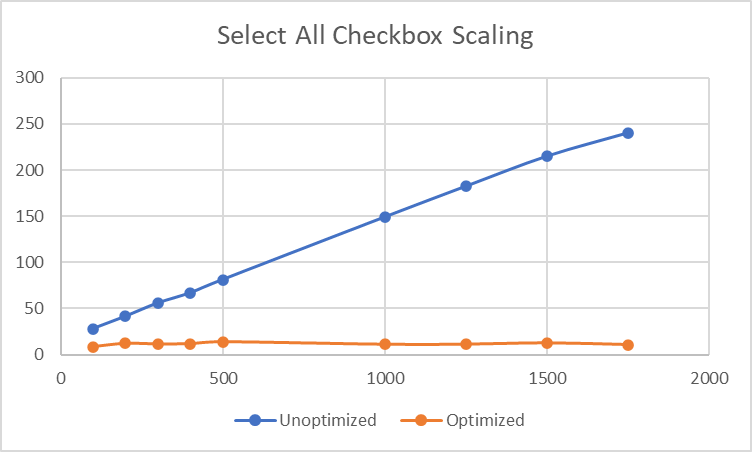
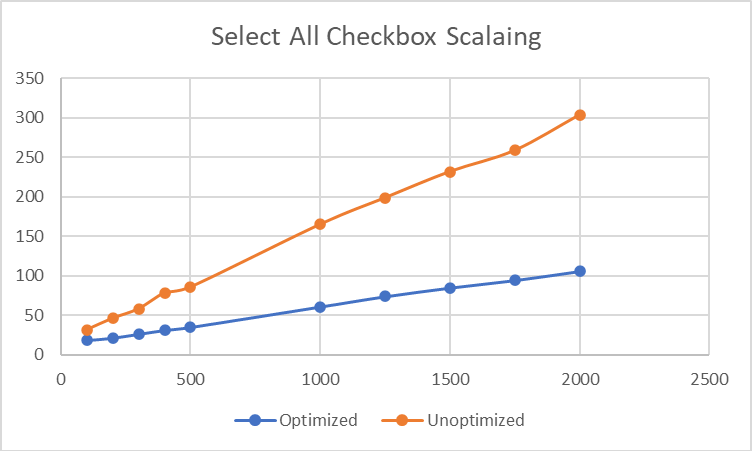
graph update

diff --git a/src/resources/EditableCell.tsx b/src/resources/EditableCell.tsx
@@ -1,22 +1,19 @@
 import React, { ChangeEventHandler, useEffect, useState } from "react";
 import { Close, ModeEdit, Check } from '@mui/icons-material';
+import { heavy } from "./utils";
 
 export type EditableCellProps = {
   value: string;
   onConfirm: (value: string) => void;
 };
 
-const heavy = () => {
-  for (let i = 0; i < 1750; i++) {
-    JSON.stringify({});
-  }
-};
-
 const EditableCell: React.FC<EditableCellProps> = (props) => {
   const { value, onConfirm } = props;
   const [editState, setEditState] = useState(false);
   const [editValue, setEditValue] = useState("");
-  heavy()
+
+  heavy();
+
   useEffect(() => {
     if (!editState) {
       setEditValue(value);

diff --git a/src/StateManaged/RowCheckbox.tsx b/src/StateManaged/RowCheckbox.tsx
@@ -1,5 +1,6 @@
 import React from "react";
 import { applyState, State, useDispatch } from "./StateManager";
+import { heavy } from "../resources/utils";
 
 type ParentProps = {
   id: string;
@@ -12,7 +13,7 @@ type ToggleCheck = React.InputHTMLAttributes<HTMLInputElement>["onChange"];
 const RowCheckbox: RowCheckboxComponent = (props) => {
   const { id, checked } = props;
   const dispatch = useDispatch();
-
+  heavy();
   const toggleCheck: ToggleCheck = (e) => {
     dispatch(({ selected }) => ({
       selected: e.target.checked

diff --git a/src/StateManaged/AllCheckbox.tsx b/src/StateManaged/AllCheckbox.tsx
@@ -1,5 +1,6 @@
 import React from "react";
 import { useDispatch, applyState, State } from "./StateManager";
+import { heavy } from "../resources/utils";
 
 type StateProps = ReturnType<ReturnType<typeof mappedState>>;
 type Component = React.FC<StateProps>;
@@ -7,7 +8,7 @@ type ToggleCheck = React.InputHTMLAttributes<HTMLInputElement>["onChange"];
 
 const AllCheckbox: Component = (props) => {
   const { allSelected } = props;
-
+  heavy();
   const dispatch = useDispatch();
 
   const toggleCheck: ToggleCheck = () => {

diff --git a/src/resources/utils.ts b/src/resources/utils.ts
@@ -1,0 +1,5 @@
+export const heavy = () => {
+  for (let i = 0; i < 2000; i++) {
+    JSON.stringify({});
+  }
+};

diff --git a/article/part1.md b/article/part1.md
@@ -221,14 +221,14 @@ Traditional performance techniques, like `useCallback` and `useMemo`, inevitably
 
 The guiding principle of fast components is the minimization of UI relying on other UI for data. The more data is passed from parent to child, the harder it is to optimize. In order to directly pass data to the components that need it, the context API is needed.
 
-Context is widely regarded as slow; with claims that it does not scale. This is a half-truth. Context is not intrinsically slow. What is slow is the downstream consequence of its usage in a React component. [`useContext`](https://react.dev/reference/react/useContext) triggers a rerender every time data updates. So in reality, the perception of context "being slow" is actually commentary on the speed of the reconciliation algorithm.
+Context is widely regarded as slow; with claims that it does not scale. This is a half-truth. Context is not intrinsically slow. What is slow is the downstream consequence of its usage in a React component. [`useContext`](https://react.dev/reference/react/useContext) triggers a rerender every time data updates. So, in reality, the perception of context "being slow" is actually commentary on the speed of the reconciliation algorithm.
 
 This performance critique is based on the most common design pattern, which is calling `useContext` directly inside the UI component that needs the data. The key phrase is "UI component". Of course, `useContext` must be called in a component; but nothing is stopping us from using it in a component that has no HTML.
 
 Here is a basic state management library that can be used to suppress rerenders. It is a scalable implementation that works in applications of any size. It leverages the following concepts:
 
-- [`Context`](https://react.dev/reference/react/createContext) to store data
-- [`useReducer`](https://react.dev/reference/react/useReducer) to dispatch and transform state data
+- [`Context`](https://react.dev/reference/react/createContext) to store data.
+- [`useReducer`](https://react.dev/reference/react/useReducer) to dispatch and transform state data.
 - Higher order component to access context data and process data before it is passed to a component.
 
 ```jsx
@@ -314,6 +314,9 @@ Make no mistake: passing data down from parent to child is oftentimes required. 
 In a majority of cases, only `id` needs to be passed down from parent to child. As long as `state` is well-structured (normalized), this should be the only thing necessary to get the necessary information. This concept will be leveraged heavily. For sake of example simplicity, the code snippet doesn't include the search/filtering algorithm.
 
 ```jsx
+import React from "react";
+import TableRow from "./TableRow";
+
 const TableRows = (props) => {
   const { rowIds } = props;
   return (
@@ -337,7 +340,7 @@ export default applyState(mappedState)(TableRows);
 The easiest way to maximize strict equality is to only pass primitives. This can be seen with the implementation of `RowCheckbox`. The resulting `checked` `boolean` changes far less often than the array of selected checkboxes. By reducing this data into a `boolean` in the function resolver of `applyState`, it is an easy win.
 
 ```jsx
-import { applyState, State } from "./StateManager";
+import { applyState } from "./StateManager";
 
 const RowCheckbox = (props) => {
   const { checked } = props;
@@ -361,7 +364,7 @@ The rows to render is dynamic because of search and filtering. `rowIds`, always 
 
 ```jsx
 import React from "react";
-import { applyState, State } from "./StateManager";
+import { applyState } from "./StateManager";
 import TableRow from "./TableRow";
 
 const TableRows = (props) => {
@@ -440,7 +443,7 @@ export default React.memo(Table);
 In most cases, it is better to have data close to the UI that use it. `RowCell` is a good case study for how this can be done. In most cases, it is better to create event handlers in the locations where they are used. It is also better to extract data from state where it is used. In most cases, only the `id` should be necessary for this. But in the case of individual cells, the name of the column is also required. The `TableRow` needs to pass down the column name. In order to do this, `TableRow` needs to know what `columns` to render.
 
 ```jsx
-import { applyState, State } from "./StateManager";
+import { applyState } from "./StateManager";
 import React from "react";
 import RowCheckbox from "./RowCheckbox";
 import RowCell from "./RowCell";
@@ -458,7 +461,7 @@ const TableRow = (props) => {
   );
 };
 
-const mappedState = () => (state: State) => {
+const mappedState = () => (state) => {
   return {
     columns: state.columns,
   };
@@ -470,7 +473,7 @@ export default applyState<TableRowProps>(mappedState)(TableRow);
 With the necessary identifiers to get the current data value, the data to render can now be computed inside `applyState`'s function resolver. In this use case, the value is a string, which will suppress useless rerenders.
 
 ```jsx
-import { applyState, useDispatch, State, Row } from "./StateManager";
+import { applyState, useDispatch, Row } from "./StateManager";
 import React from "react";
 import EditableCell from "../resources/EditableCell";
 
@@ -510,9 +513,9 @@ export default applyState(mappedState)(RowCell);
 
 ## Performance scaling
 
-The rerender overhead of typical architectures scale linearly. If rerenders are not suppressed, twice the amount of HTML means twice the number of nodes that the reconciliation algorithm needs to diff. This problem is compounded when algorithms are constantly recomputed on rerenders. But this is a non-issue when useless rerender suppression strategies are utilized. When done correctly, apps become very resistant to scaling issues. In many cases, complexity increases have no impact on responsiveness.
+The rerender overhead of typical architectures scale linearly. If rerenders are not suppressed, twice the amount of HTML means twice the number of nodes that the reconciliation algorithm needs to diff. This problem is compounded when algorithms are constantly recomputed on rerenders. But this is a non-issue when useless rerender suppression strategies are utilized. In many cases, complexity increases have no impact on responsiveness.
 
-This can be seen by comparing the performance as the table grows algorithmic complexity. As the resource requirements grows, the god component's responsiveness scales into the stratosphere. The optimized app, on the other hand, has no issues.
+This can be seen by comparing the performance as the table grows algorithmic complexity. As the resource requirements grows, the god component's responsiveness scales into the stratosphere. The optimized app, on the other hand, is resistant to scaling issues.
 
 Here is a comparison for ticking the table's "All" checkbox. With the unoptimized app, render time is 28ms.
 ![performance of click all checkbox using unoptimized app](../images/local-state-all-checkbox.png)
@@ -530,19 +533,20 @@ const heavy = () => {
 };
 ```
 
-Here are how the render cycle speed changes, as the number of iterations increases.
+Here are how the render cycle speed changes, as the number of iterations increases. Any responsiveness slower than 50 ms is typically considered to be intrusive to the user experience.
 
-|Iterations | Unoptimized (ms) | Optimized (ms) |
-|-----------|------------------|----------------|
-|100        |28                |8.7             |
-|200        |41.4              |12              |
-|300        |55.9              |11.4            |
-|400        |66.9              |11.7            |
-|500        |81.3              |13.6            |
-|1000       |149.2             |11.1            |
-|1250       |182.5             |11.2            |
-|1500       |215.1             |12.5            |
-|1750       |240.4             |10.8            |
+|Iterations | Optimized (ms)   | Unoptimized (ms) |
+|-----------|------------------|------------------|
+|100        |18.7              |31.6              |
+|200        |21.7              |46.2              |
+|300        |26.6              |58.2              |
+|400        |31.5              |78.2              |
+|500        |35.3              |85.7              |
+|1000       |61.1              |165               |
+|1250       |74.1              |198.7             |
+|1500       |85.1              |231.8             |
+|1750       |94.6              |258.7             |
+|2000       |106               |303.7             |
 
 ![scaling of clicking all checkbox using unoptimized app](../images/select-all-checkbox-scaling.png)
 
@@ -553,7 +557,7 @@ Front-loading the computation in `applyState`, which recomputes on every render 
 For example, if the algorithm in `getFilteredRows` existed inside `TableRows`, strict equality would be met more often (as opposed to never met).
 
 ```jsx
-import { applyState, State } from "./StateManager";
+import { applyState } from "./StateManager";
 import React from "react";
 import TableRow from "./TableRow";
 
